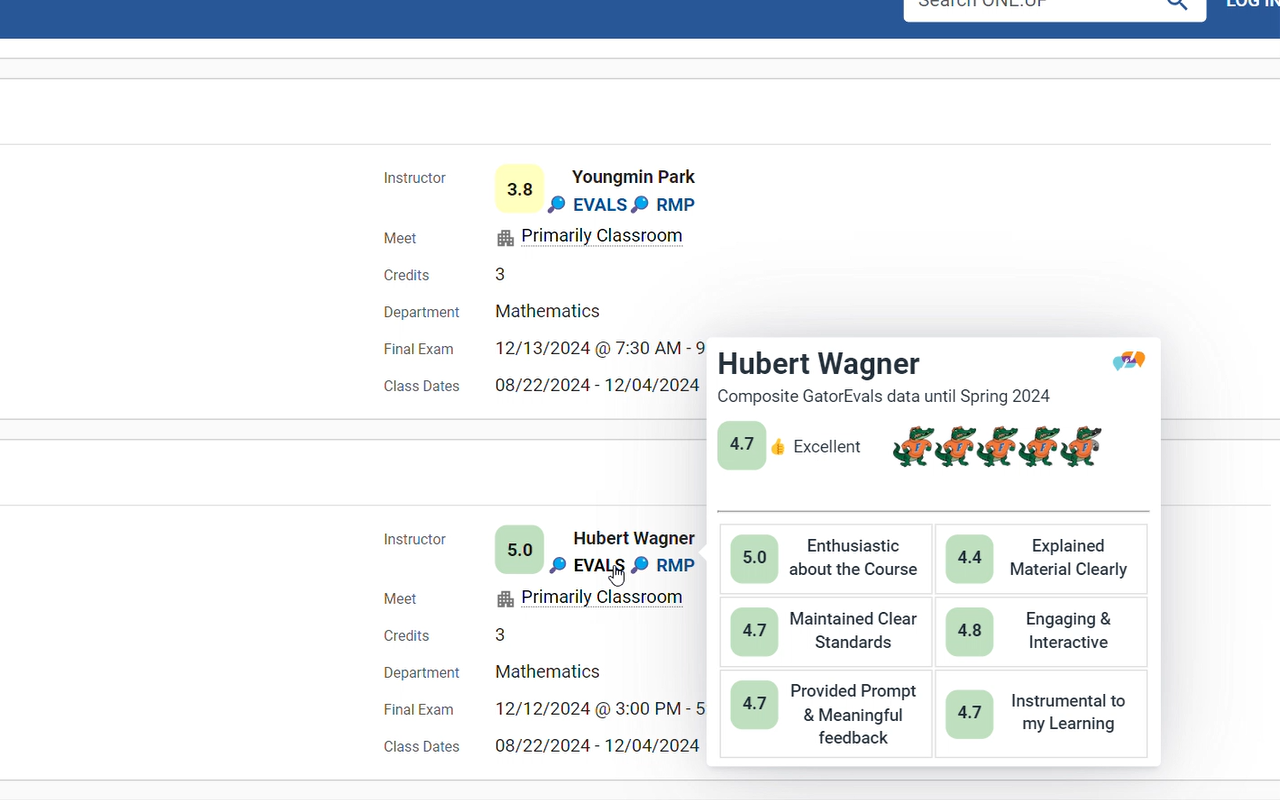
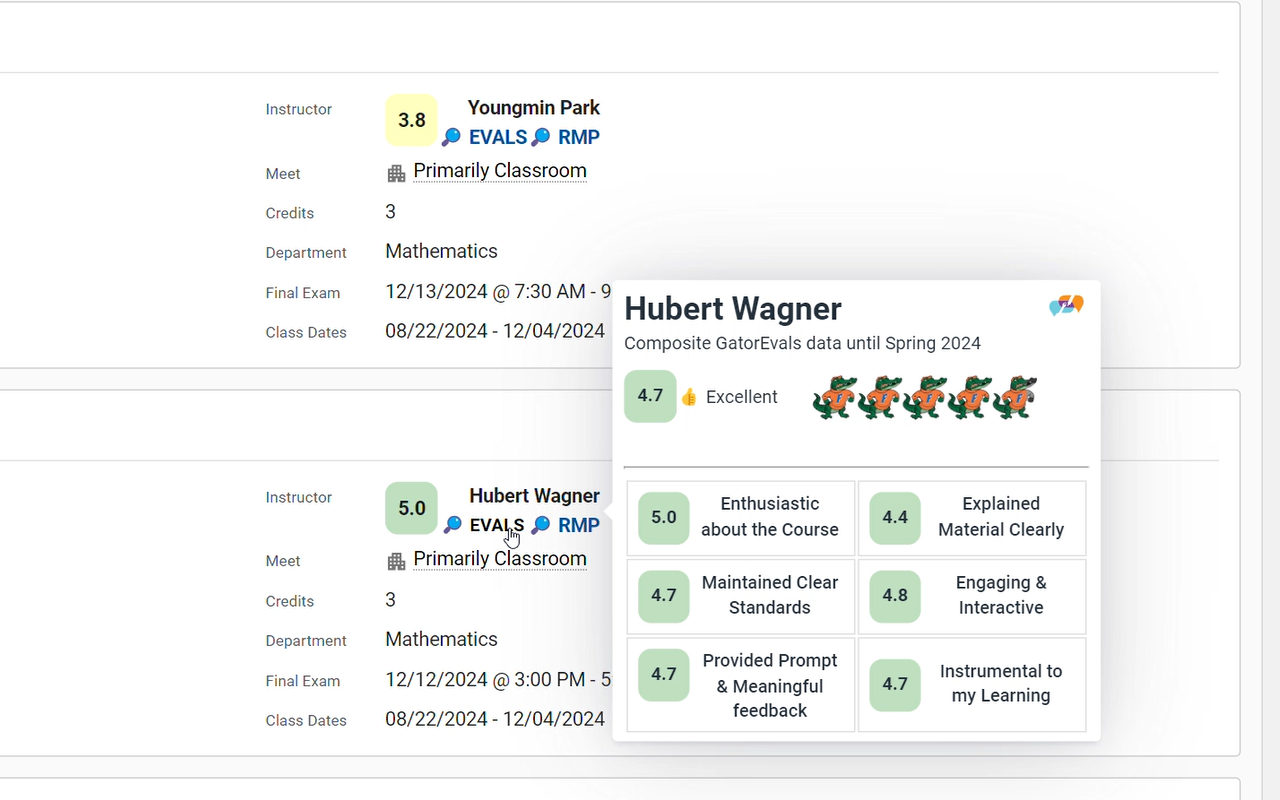
version 3.0 changes

diff --git a/src/components/professorcard.js b/src/components/professorcard.js
@@ -1,4 +1,6 @@
 import { createToolTipElement, getOverallScoreDiv, getOverallEmojiDiv, createMeter } from "../utils/componentutils.js";
+import { RMP_LOGO, EVALS_LOGO } from "../constants/logos.js"
+import { abbreviateName } from "../utils/inputfiltering.js";
 import { EMOJIS } from "../constants/emoji.js";
 import tippy from "tippy.js"
 
@@ -11,13 +13,8 @@ function titleSection(div, profData) {
 		className: 'prof-card-rating-title', 
 		textContent: profData.getDisplayName()
 	  });
-	const logo = Object.assign(
-		document.createElement('img'), {
-		  src: chrome.runtime.getURL('images/web-accessible/rmp.svg'),
-		  style: 'padding-top: 5px; height: 25px; width: auto;'
-		});
 	container.appendChild(name);
-	container.appendChild(logo);
+	container.appendChild(RMP_LOGO());
 	div.appendChild(container);
 	div.appendChild(
 		createToolTipElement(`Professor in ${profData.department} ${EMOJIS.get(profData.department.toLowerCase())}`)
@@ -140,20 +137,51 @@ function reviewSection(div, mostHelpfulReview) {
 		createToolTipElement(`👍${mostHelpfulReview.totalThumbsUp} 👎${mostHelpfulReview.totalThumbsDown}`)
 	);
 }
-export function setupRMPCard(element, profData) {
+function notFoundSection(div, name, logo) {
+	const nameContainer = document.createElement('div');
+	nameContainer.className = "prof-card-name-and-logo";
+	nameContainer.appendChild(Object.assign(
+		document.createElement('div'), {
+		  className: 'prof-card-rating-title',
+		  textContent: abbreviateName(name)
+		}));
+	nameContainer.appendChild(logo)
+
+	const nfContainer = document.createElement('div');
+	nfContainer.setAttribute('style', 'margin: 130px 40px');
+	nfContainer.appendChild(Object.assign(
+		document.createElement('div'), {
+		  style: 'font-size: 25px; text-align: center; font-weight: 500',
+		  textContent: 'Not Found'
+		}));
+	nfContainer.appendChild(Object.assign(
+		document.createElement('img'), {
+		  src: chrome.runtime.getURL('images/web-accessible/not_found.png'),
+		  style: 'width: 300px; height: auto'
+		}));
+	nfContainer.appendChild(Object.assign(
+		document.createElement('div'), {
+			style: 'font-size: 12px; text-align: center; font-weight: 500',
+			textContent: 'Click 🔎 to search'
+		}));
+	div.appendChild(nameContainer);
+	div.appendChild(nfContainer);
+}
+export function setupRMPCard(element, fullName, profData) {
 	const div = document.createElement('div');
 
-	titleSection(div, profData)
-
-	mainSection(div, profData);
-	
-	difficultySection(div, profData);
-	
-	wouldtakeagainSection(div, profData);
-	
-	tagsSection(div, profData);
-
-	if (profData.mostHelpfulRating) { reviewSection(div, profData.mostHelpfulRating); }
+	if (profData !== undefined) {
+		titleSection(div, profData)
+		mainSection(div, profData);
+		difficultySection(div, profData);
+		wouldtakeagainSection(div, profData);
+		tagsSection(div, profData);
+		if (profData.mostHelpfulRating) { reviewSection(div, profData.mostHelpfulRating); }
+	}
+	else {
+		// create no prof found tag
+		notFoundSection(div, fullName, RMP_LOGO());
+	}
 
 	// create popup attached to element with div as contents
 	const tip = tippy(element.parentElement.parentElement.parentElement, {
@@ -224,6 +252,8 @@ function evalsMainSection(div, avg) {
 	div.appendChild(d);
 }
 function evalsSubratingsSection(div, data) {
+
+
 	const tableData = [
 		[
 			{ rating: data[0], description: "Enthusiastic about the Course" },
@@ -264,24 +294,18 @@ function evalsSubratingsSection(div, data) {
 	div.appendChild(table);
 }
 export function setupEvalsCard(element, name, data) {
+	const div = document.createElement('div');
 	if (data[name]) {
 		data = data[name];
-		const div = document.createElement('div');
-
 		const container = document.createElement("div");
 		container.className = "prof-card-name-and-logo";
 		const nameDiv = Object.assign(
 			document.createElement('div'),{ 
 			className: 'prof-card-rating-title', 
-			textContent: name
+			textContent: abbreviateName(name)
 		});
-		const logo = Object.assign(
-			document.createElement('img'), {
-			src: chrome.runtime.getURL('images/web-accessible/evals.svg'),
-			style: 'padding-top: 5px; height: 25px; width: auto;'
-			});
 		container.appendChild(nameDiv);
-		container.appendChild(logo);
+		container.appendChild(EVALS_LOGO());
 		div.appendChild(container);
 		div.appendChild(
 			createToolTipElement(`Composite GatorEvals data until Spring 2024`)
@@ -293,20 +317,21 @@ export function setupEvalsCard(element, name, data) {
 		div.appendChild(document.createElement("hr"));
 
 		evalsSubratingsSection(div, data);
-
-		// create popup attached to element with div as contents
-		const tip = tippy(element.parentElement.parentElement.parentElement, {
-			trigger: 'manual',
-			theme: 'light',
-			placement: 'right',
-			maxWidth: 380,
-			animation: 'shift-away-extreme',
-			delay: [150, 0],
-			content: div
-		});
-
-		element.addEventListener('mouseenter', () => tip.show())
-		element.addEventListener('mouseleave', () => tip.hide())
 	}
-	
+	else {
+		// not found card
+		notFoundSection(div, name, EVALS_LOGO());
+	}
+	// create popup attached to element with div as contents
+	const tip = tippy(element.parentElement.parentElement.parentElement, {
+		trigger: 'manual',
+		theme: 'light',
+		placement: 'right',
+		maxWidth: 380,
+		animation: 'shift-away-extreme',
+		delay: [150, 0],
+		content: div
+	});
+	element.addEventListener('mouseenter', () => tip.show())
+	element.addEventListener('mouseleave', () => tip.hide())
 }

diff --git a/src/content/index.js b/src/content/index.js
@@ -30,35 +30,31 @@ for (const css of csses) {
 
 
 // driver code to call API queries and append html contents
-const cache = new LRUCache(15);
-const selectors = ['.sc-kpDqfm.dvjGPq.MuiTypography-root.MuiTypography-body1.sc-epRvzc.fFLxNM'];
-selectors.forEach((selector) => {
-	document.arrive(selector, function (target) {
-		let name = filterNonProfessors(target.textContent.trim());
-		let profname = replaceCustomNicknames(name);
-		let lastName = profname.split(' ');
-		lastName = lastName[lastName.length - 1];
-		let cache_hit = cache.get(profname);
-		if (cache_hit) {
-			linkRMP(target, cache_hit, lastName, UF_SCHOOL_ID, name)
-		} else {
-			// cache missed
-			searchProfessorByName(profname, UF_SCHOOL_ID)
-			.then((results) => {
-				cache.set(profname, results);
-				linkRMP(target, results, lastName, UF_SCHOOL_ID, name)
-				}
-			)
-			.catch((error) => {
-					// if no luck, then provide a link with just [Last Name]
-					console.log(error);
-					linkRMP(target, [], lastName, UF_SCHOOL_ID, name)
-					return
-				}
-			)
-		}
-	});
+const cache = new LRUCache(15); // LRUCache to reduce RMP API calls
+const selector = '.sc-kpDqfm.dvjGPq.MuiTypography-root.MuiTypography-body1.sc-epRvzc.fFLxNM';
+document.arrive(selector, function (target) {
+	let name = filterNonProfessors(target.textContent.trim());
+	let filteredname = replaceCustomNicknames(name);
+	let cache_hit = cache.get(filteredname);
+	if (cache_hit) {
+		createHTML(target, cache_hit, name)
+	} else {
+		// cache missed
+		searchProfessorByName(filteredname, UF_SCHOOL_ID)
+		.then((results) => {
+			cache.set(filteredname, results);
+			createHTML(target, results, name)
+			}
+		)
+		.catch((error) => {
+				// if no luck, then provide a link
+				createHTML(target, [], name)
+				return
+			}
+		)
+	}
 });
+
 
 
 /**
@@ -210,28 +206,23 @@ async function GetProfessorRating(searchterm, schoolId) {
  * Adds link and professor card to the course selection page
  * @param {HTMLElement} element element to append link/card to
  * @param {Array[RMPProfessorData]} results queried list of RMPProfessorData objects 
- * @param {string} lastName last name of the professor queried
- * @param {string} schoolId uf schoolid
+ * @param {String} fullName trimmed name of the professor from course selection page
  */
-function linkRMP(element, results, lastName, schoolId, fullName = "") {
+function createHTML(element, results, fullName) {
 	element.setAttribute('target', '_blank');
 	element.classList.add('blueText');
 	element.parentElement && element.parentElement.classList.add('classSearchBasicResultsText');
-
+	const lastName = fullName.split(' ').pop();
 	// check if the results have a match
-	const result = results.find(result => isCloseEnough(result.getFullName(), element.textContent));
+	const profData = results.find(result => isCloseEnough(result.getFullName(), element.textContent));
 	
 	// create a professor tag / card
-	if (result === undefined) {
-		setupProfTag(element, [], lastName, schoolId, false);
-	} else {
-		let profData = result;
-		setupProfTag(element, profData, lastName, schoolId, true)
-		.then(() => {
-			setupRMPCard(element.children[1].children[1].children[0], profData);
-			setupEvalsCard(element.children[1].children[1].children[1], fullName, evalsData);
-		})
-	}
+	setupProfTag(element, profData, lastName)
+	.then(() => {
+		setupRMPCard(element.children[1].children[1].children[0], fullName, profData);
+		setupEvalsCard(element.children[1].children[1].children[1], fullName, evalsData);
+	})
+	
 }
 
 

diff --git a/src/components/professortag.js b/src/components/professortag.js
@@ -1,8 +1,9 @@
 import { getOverallScoreDiv } from "../utils/componentutils.js";
+import { UF_SCHOOL_ID } from "../constants/school.js";
 
-export function setupProfTag(element, profData, lastName, schoolId, isFound = true) {
+export function setupProfTag(element, profData, lastName) {
 	return new Promise(function(resolve, reject) {
-		isFound ? element.setAttribute('href', profData.getURL()) : element.setAttribute('href', `https://www.ratemyprofessors.com/search/professors?q=${lastName}&sid=${schoolId}`);
+		profData !== undefined ? element.setAttribute('href', profData.getURL()) : element.setAttribute('href', `https://www.ratemyprofessors.com/search/professors?q=${lastName}&sid=${UF_SCHOOL_ID}`);
 		element.setAttribute('style', 'display: flex;');
 		
 		const linkName = document.createElement('div');
@@ -13,7 +14,7 @@ export function setupProfTag(element, profData, lastName, schoolId, isFound = tr
 		const RMPTag = document.createElement('a');
 		RMPTag.setAttribute('target', '_blank');
 		RMPTag.classList.add('link-balance-rmp');
-		RMPTag.href = isFound ? profData.getURL() : `https://www.ratemyprofessors.com/search/professors?q=${lastName}&sid=${schoolId}`;
+		RMPTag.href = profData !== undefined ? profData.getURL() : `https://www.ratemyprofessors.com/search/professors?q=${lastName}&sid=${UF_SCHOOL_ID}`;
 		RMPTag.textContent = '🔎 RMP';
 
 		const EVALSTag = document.createElement('a');
@@ -23,7 +24,7 @@ export function setupProfTag(element, profData, lastName, schoolId, isFound = tr
 		EVALSTag.textContent = '🔎 EVALS';
 		
 		const container = document.createElement('div');
-		container.style = "position: relative;";
+		container.setAttribute('style', 'margin-left: auto;');
 
 		const balance = Object.assign(
 			document.createElement('div'), {
@@ -36,7 +37,7 @@ export function setupProfTag(element, profData, lastName, schoolId, isFound = tr
 		container.appendChild(linkName);
 		container.appendChild(balance);
 		
-		const rating = isFound ? getOverallScoreDiv(profData.getQualityRatingString()) : getOverallScoreDiv("", false);
+		const rating = profData !== undefined ? getOverallScoreDiv(profData.getQualityRatingString()) : getOverallScoreDiv("", false);
 		
 		element.appendChild(rating);
 		element.appendChild(container);

diff --git a/src/constants/logos.js b/src/constants/logos.js
@@ -1,0 +1,14 @@
+export function RMP_LOGO() {
+    return Object.assign(
+        document.createElement('img'), {
+        src: chrome.runtime.getURL('images/web-accessible/rmp.svg'),
+        style: 'padding-top: 5px; height: 25px; width: auto;'
+        });
+}
+export function EVALS_LOGO(){
+    return Object.assign(
+        document.createElement('img'), {
+        src: chrome.runtime.getURL('images/web-accessible/evals.svg'),
+        style: 'padding-top: 5px; height: 25px; width: auto;'
+        });
+} 

diff --git a/src/utils/inputfiltering.js b/src/utils/inputfiltering.js
@@ -49,3 +49,10 @@ export function createProfessorSearchStrings(nameComponents, nicknames = []) {
 
 	return searchStrings
 }
+
+
+export function abbreviateName(fullName, cutoff = 23) {
+	const firstName = fullName.split(' ')[0];
+	const lastName = fullName.split(" ").pop();
+	return firstName.length + lastName.length < cutoff ? firstName + " " + lastName : firstName[0] + ". " + lastName;
+}

diff --git a/src/content/content.css b/src/content/content.css
@@ -13,7 +13,6 @@
   padding-bottom: 5px;
   text-align: center;
 }
-
 .prof-card-name-and-logo {
   display: flex;
   justify-content: space-between;
@@ -137,6 +136,10 @@
     margin-bottom: 3px;
 }
   
+.classSearchBasicResultsText{
+  display: flex;
+  flex-direction: column;
+}
 
 /* The green (optimum) bar in Firefox */
 .normal-meter meter:-moz-meter-optimum::-moz-meter-bar {

diff --git a/src/utils/componentutils.js b/src/utils/componentutils.js
@@ -13,7 +13,6 @@ export function getOverallScoreDiv(score, isFound = true) {
 	const strong = document.createElement('strong');
 	strong.textContent = isNaN(score) ? "NA" : Number(score).toFixed(1);
 	rating.appendChild(strong);
-
 	if (score >= 4) {
 		rating.style.backgroundColor =  'rgba(0, 128, 0, 0.25)';
 	} else if (score >= 2) {
